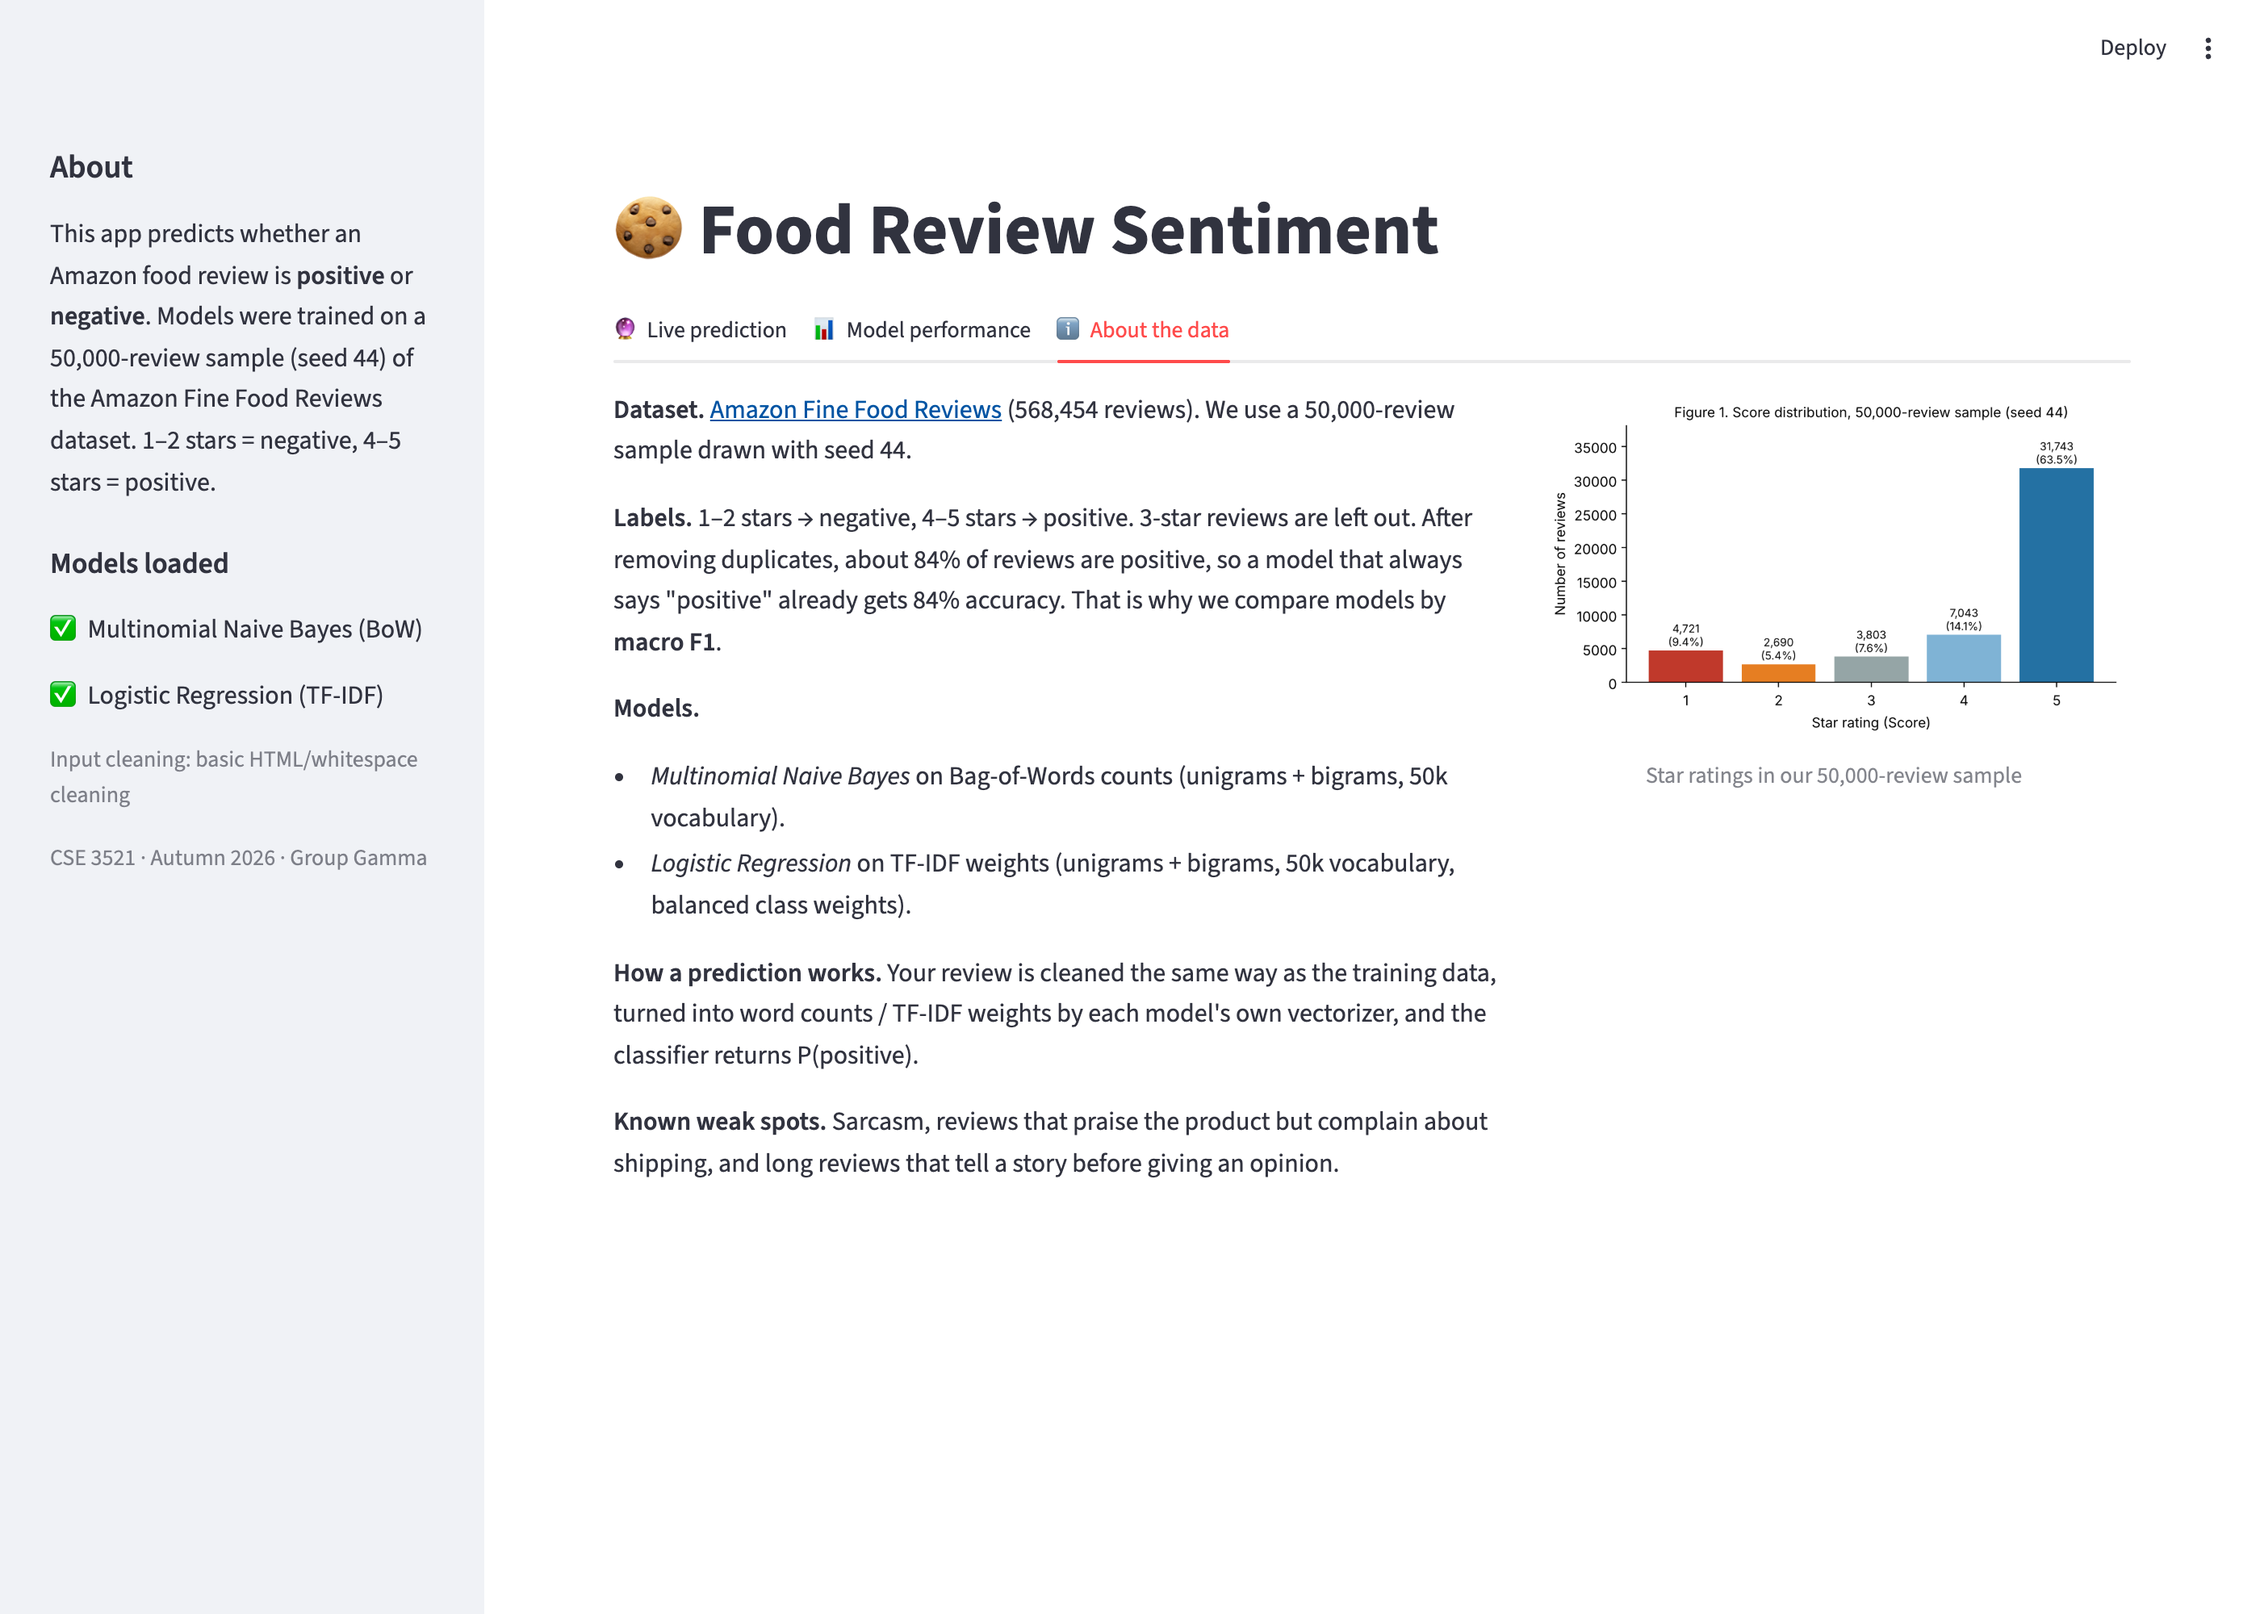
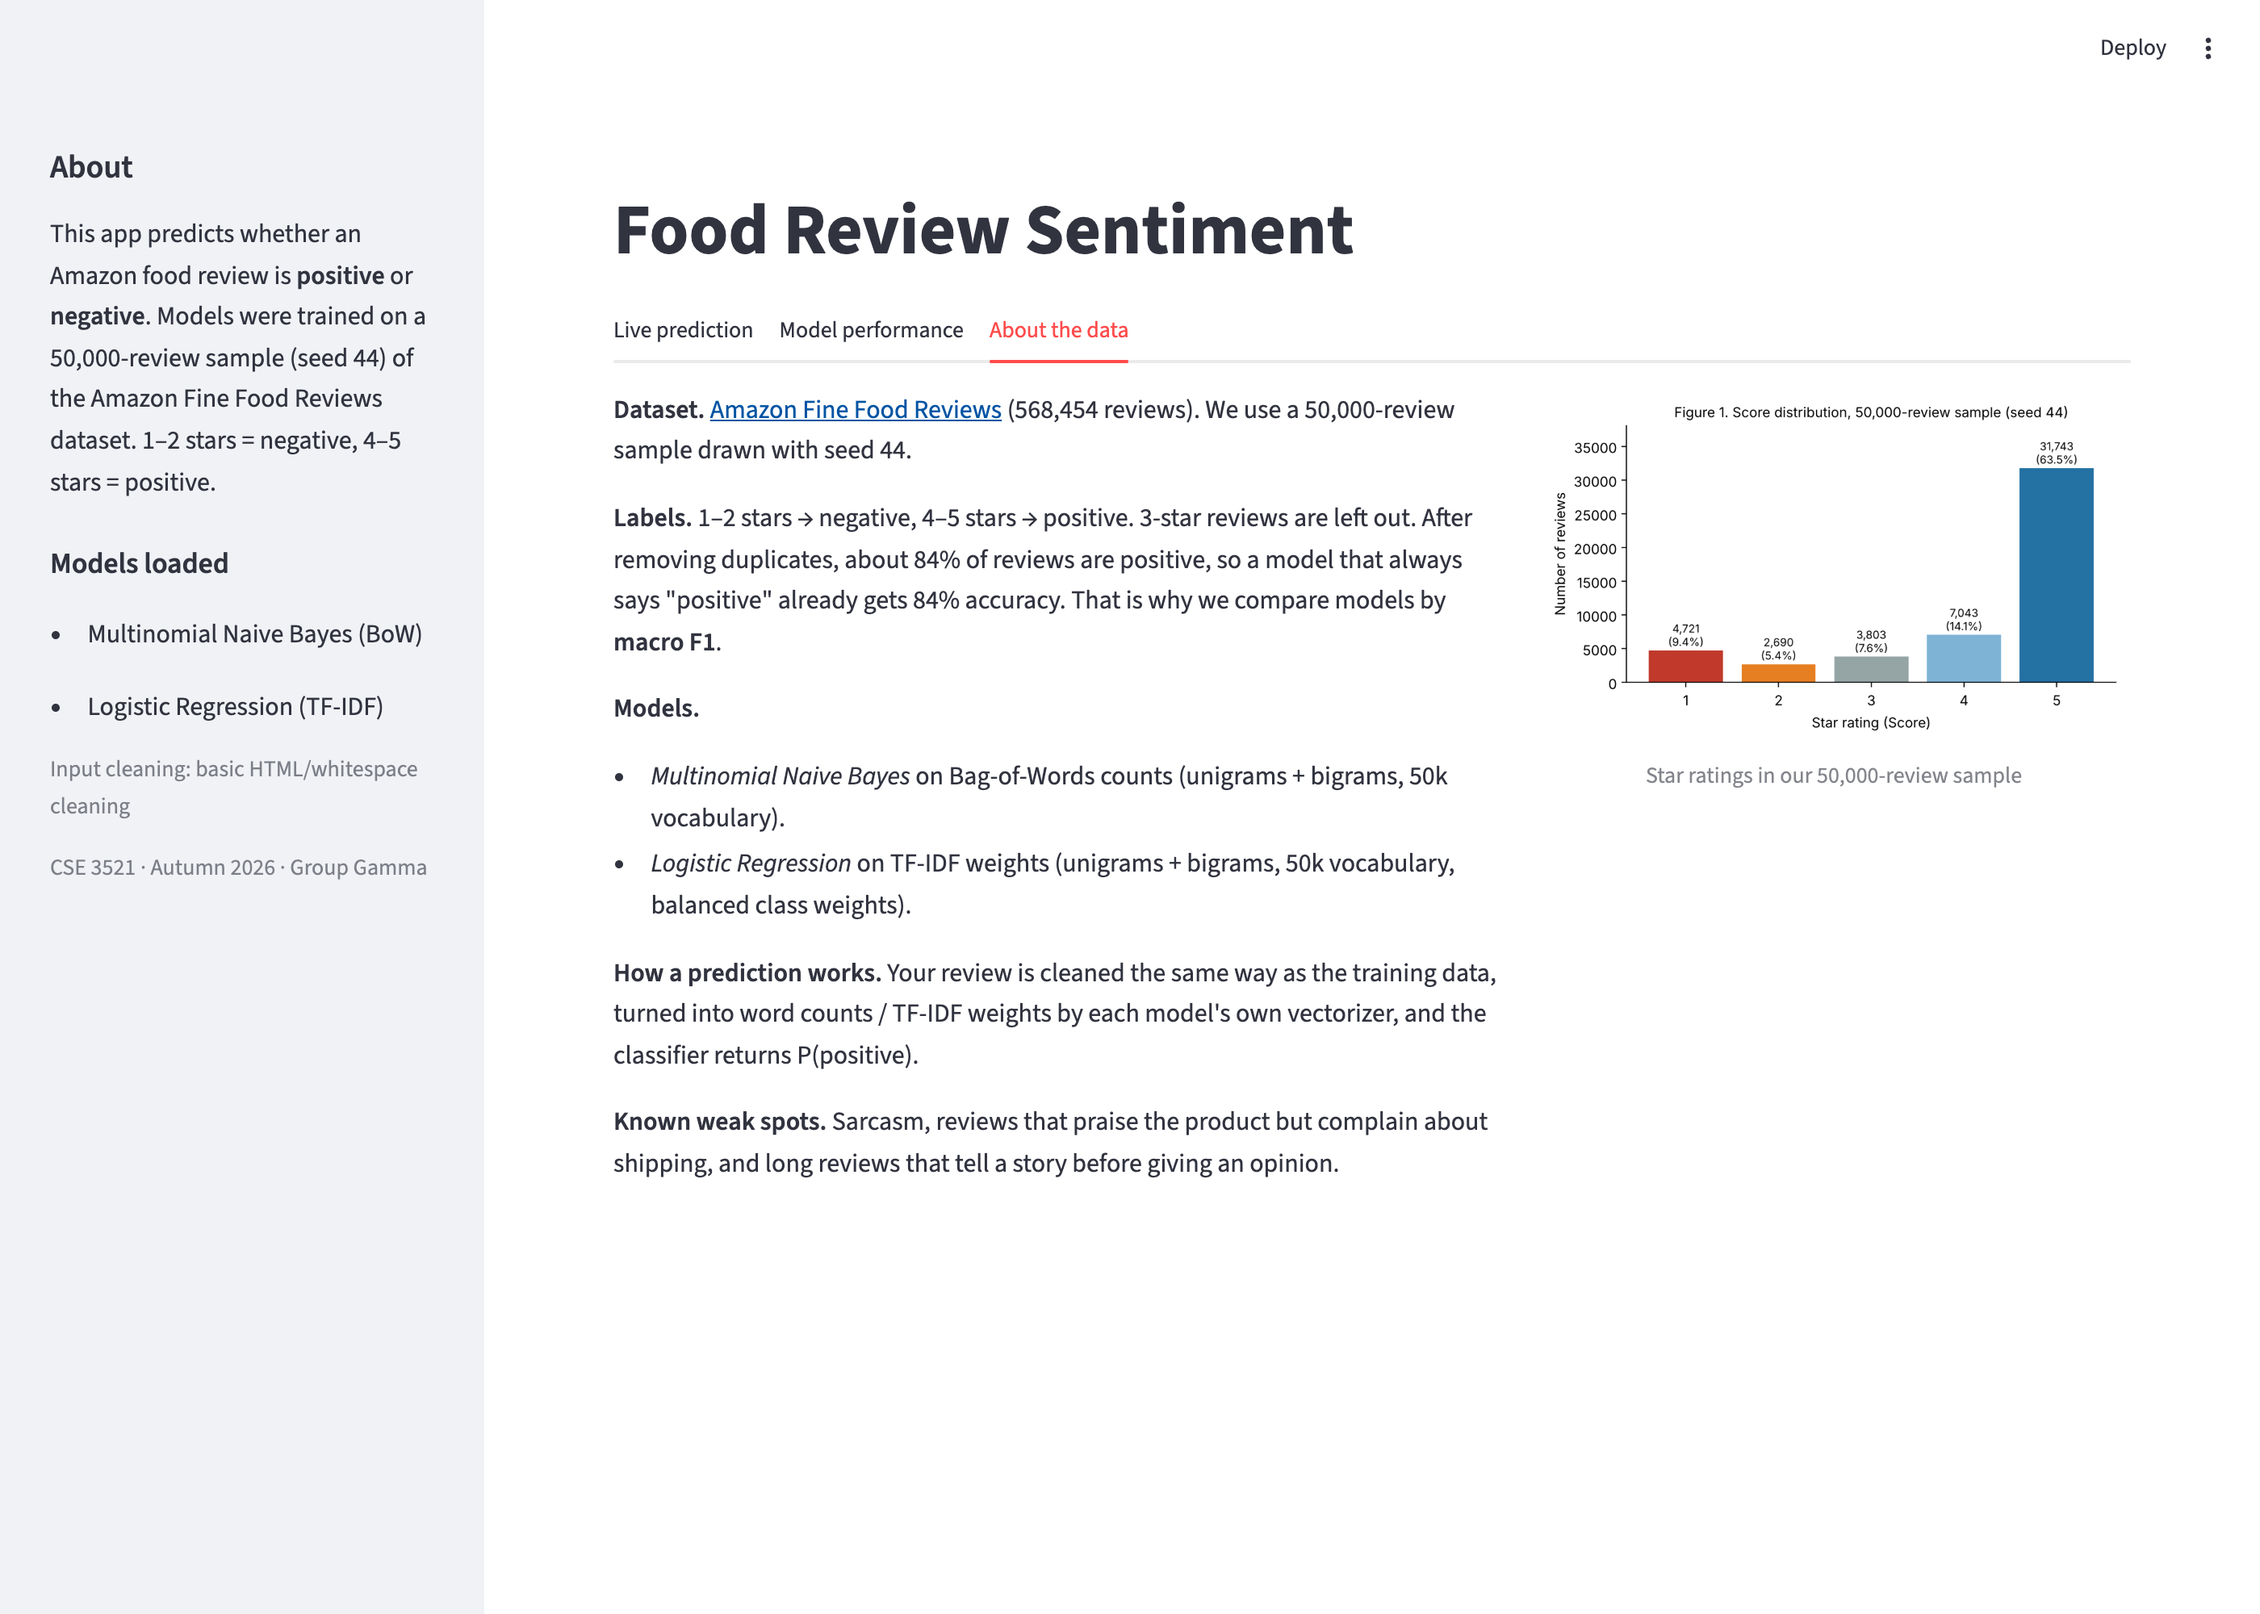
App: remove emoji from UI and docs, retake screenshots

Changed region(s): [[0.0, 0.372, 0.1864, 0.558], [0.2486, 0.124, 0.6525, 0.155], [0.2796, 0.186, 0.5282, 0.217]]

diff --git a/app.py b/app.py
@@ -124,7 +124,7 @@ def set_example(text: str):
 
 
 # ---------------------------------------------------------------- page layout
-st.set_page_config(page_title="Food Review Sentiment", page_icon="🍪", layout="wide")
+st.set_page_config(page_title="Food Review Sentiment", layout="wide")
 
 models, missing = load_models()
 clean, cleaner_name = load_cleaner()
@@ -144,16 +144,16 @@ with st.sidebar:
     )
     st.subheader("Models loaded")
     for name in models:
-        st.write(f"✅ {name}")
+        st.write(f"- {name}")
     for filename in missing:
-        st.write(f"⚠ missing `models/{filename}`")
+        st.write(f"- missing `models/{filename}`")
     st.caption(f"Input cleaning: {cleaner_name}")
     st.caption("CSE 3521 · Autumn 2026 · Group Gamma")
 
-st.title("🍪 Food Review Sentiment")
+st.title("Food Review Sentiment")
 
 tab_predict, tab_perf, tab_about = st.tabs(
-    ["🔮 Live prediction", "📊 Model performance", "ℹ About the data"]
+    ["Live prediction", "Model performance", "About the data"]
 )
 
 # ---------------------------------------------------------------- tab 1
@@ -187,9 +187,9 @@ with tab_predict:
                 with col:
                     st.subheader(name)
                     if label == "positive":
-                        st.success(f"👍 Positive  ·  {p_pos:.1%} confident")
+                        st.success(f"Positive  ·  {p_pos:.1%} confident")
                     else:
-                        st.error(f"👎 Negative  ·  {1 - p_pos:.1%} confident")
+                        st.error(f"Negative  ·  {1 - p_pos:.1%} confident")
                     st.progress(float(p_pos), text=f"P(positive) = {p_pos:.3f}")
 
                     contrib = word_contributions(model, text)

diff --git a/report/CSE3521_M3_Report_Template.md b/report/CSE3521_M3_Report_Template.md
@@ -73,9 +73,9 @@ Our Streamlit app is a working prototype of the sentiment system. A user pastes 
 
 | Tab / page | Purpose | User interaction and output |
 |---|---|---|
-| 🔮 Live prediction | Live sentiment prediction from every loaded model | The user types or pastes a review, or clicks one of four example buttons (Positive, Negative, Mixed, Negation). Each model shows its label, its confidence, and a P(positive) bar. A "Why?" panel lists the five words or phrases pushing most toward positive and toward negative (Naive Bayes: count × log-probability ratio; Logistic Regression: TF-IDF weight × coefficient). A warning appears when the models disagree. A final panel shows the cleaned text the models actually received. |
-| 📊 Model performance | Results on the shared held-out test set | A table of accuracy, macro precision, macro recall, macro F1 and training time for the majority-class baseline and each model, with the best macro F1 highlighted, plus a confusion matrix for each model. Values are read from `models/model_metrics.json`, which `scripts/export_metrics.py` regenerates after a model is retrained. |
-| ℹ About the data | Context for non-technical users | Describes the dataset, the label scheme (1–2 stars negative, 4–5 positive, 3 excluded), why macro F1 is used under class imbalance, how each model turns text into numbers, and known weak spots. Shows the star-rating distribution chart. |
+| Live prediction | Live sentiment prediction from every loaded model | The user types or pastes a review, or clicks one of four example buttons (Positive, Negative, Mixed, Negation). Each model shows its label, its confidence, and a P(positive) bar. A "Why?" panel lists the five words or phrases pushing most toward positive and toward negative (Naive Bayes: count × log-probability ratio; Logistic Regression: TF-IDF weight × coefficient). A warning appears when the models disagree. A final panel shows the cleaned text the models actually received. |
+| Model performance | Results on the shared held-out test set | A table of accuracy, macro precision, macro recall, macro F1 and training time for the majority-class baseline and each model, with the best macro F1 highlighted, plus a confusion matrix for each model. Values are read from `models/model_metrics.json`, which `scripts/export_metrics.py` regenerates after a model is retrained. |
+| About the data | Context for non-technical users | Describes the dataset, the label scheme (1–2 stars negative, 4–5 positive, 3 excluded), why macro F1 is used under class imbalance, how each model turns text into numbers, and known weak spots. Shows the star-rating distribution chart. |
 
 The sidebar lists which model files loaded successfully and which input cleaning is active. New reviews are cleaned with the same functions as the training data: the app imports them from `scripts/clean_reviews_script_final.py` (HTML/whitespace cleaning, quote normalization, conservative spelling correction, contraction standardization, negation commas). If that script or `pyspellchecker` is unavailable, the app falls back to basic HTML/whitespace cleaning. A review can also be passed in the URL (`?review=...`), which is useful for sharing a demo link.
 

diff --git a/README.md b/README.md
@@ -80,9 +80,9 @@ The app opens at http://localhost:8501 and loads the trained pipelines in `model
 
 | Tab | What it shows |
 |---|---|
-| 🔮 Live prediction | Paste a review and see every model's prediction side by side, with confidence and the words that drove each prediction |
-| 📊 Model performance | Test-set accuracy, macro precision, recall, F1, training time and a confusion matrix per model (read from `models/model_metrics.json`) |
-| ℹ About the data | Dataset, label scheme, and how the models work |
+| Live prediction | Paste a review and see every model's prediction side by side, with confidence and the words that drove each prediction |
+| Model performance | Test-set accuracy, macro precision, recall, F1, training time and a confusion matrix per model (read from `models/model_metrics.json`) |
+| About the data | Dataset, label scheme, and how the models work |
 
 After retraining a model, refresh the metrics the app shows with:
 
